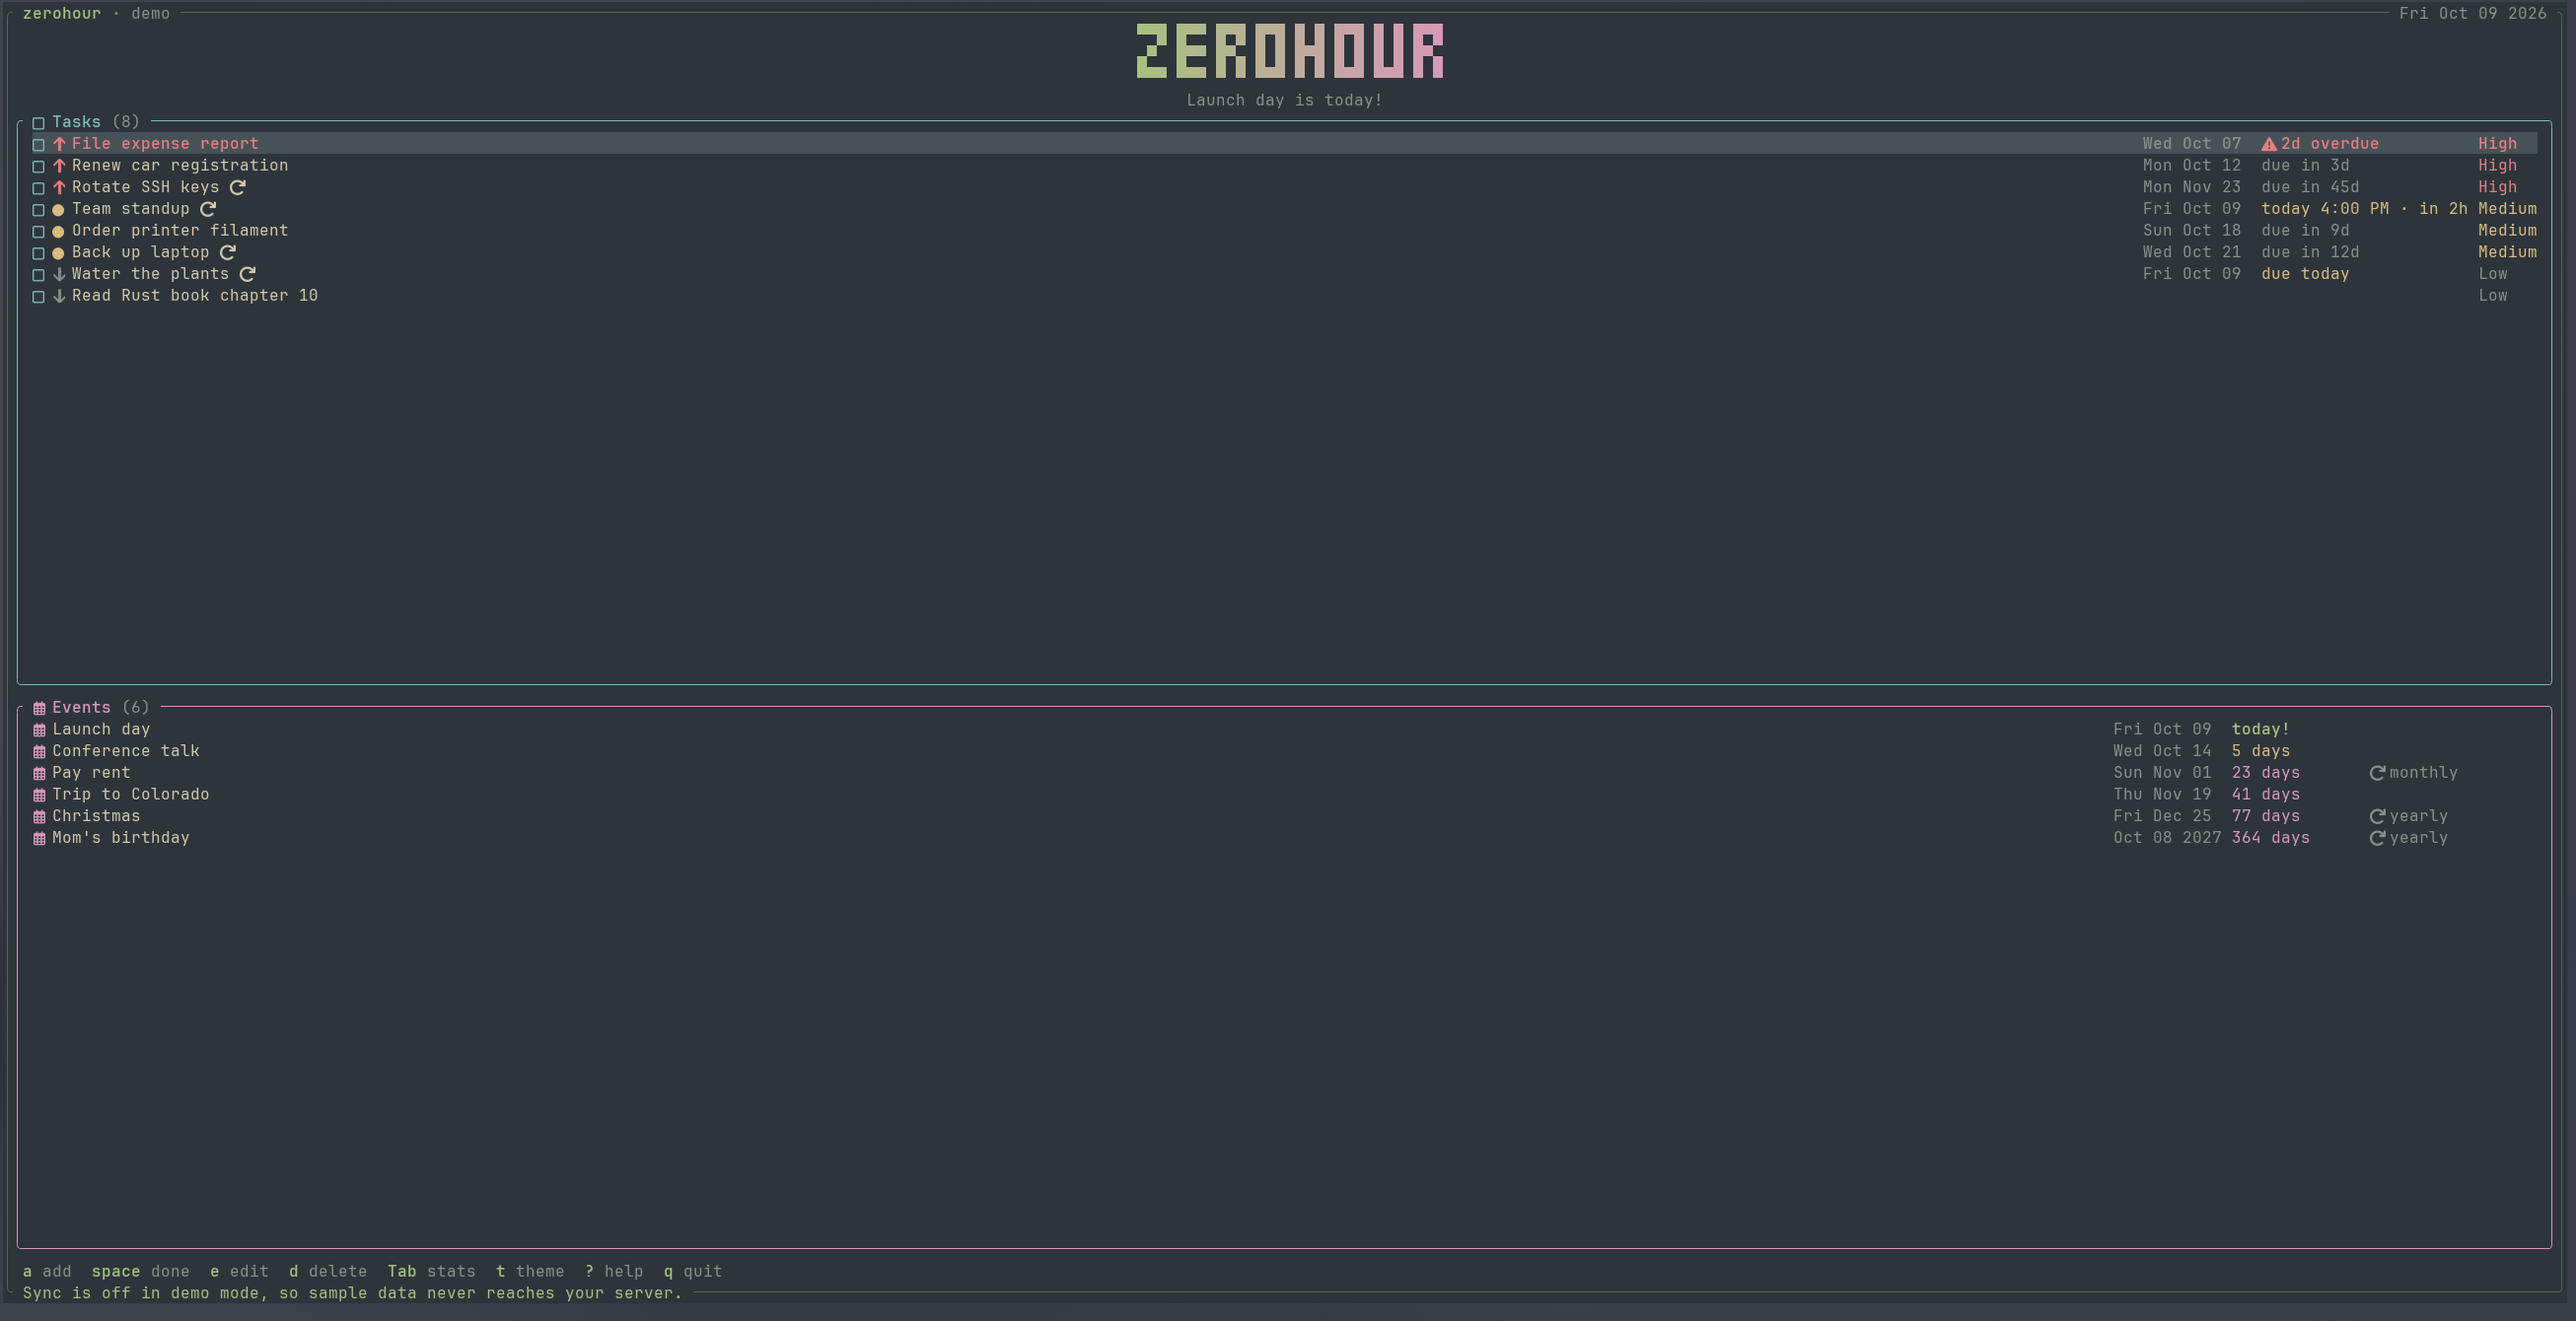
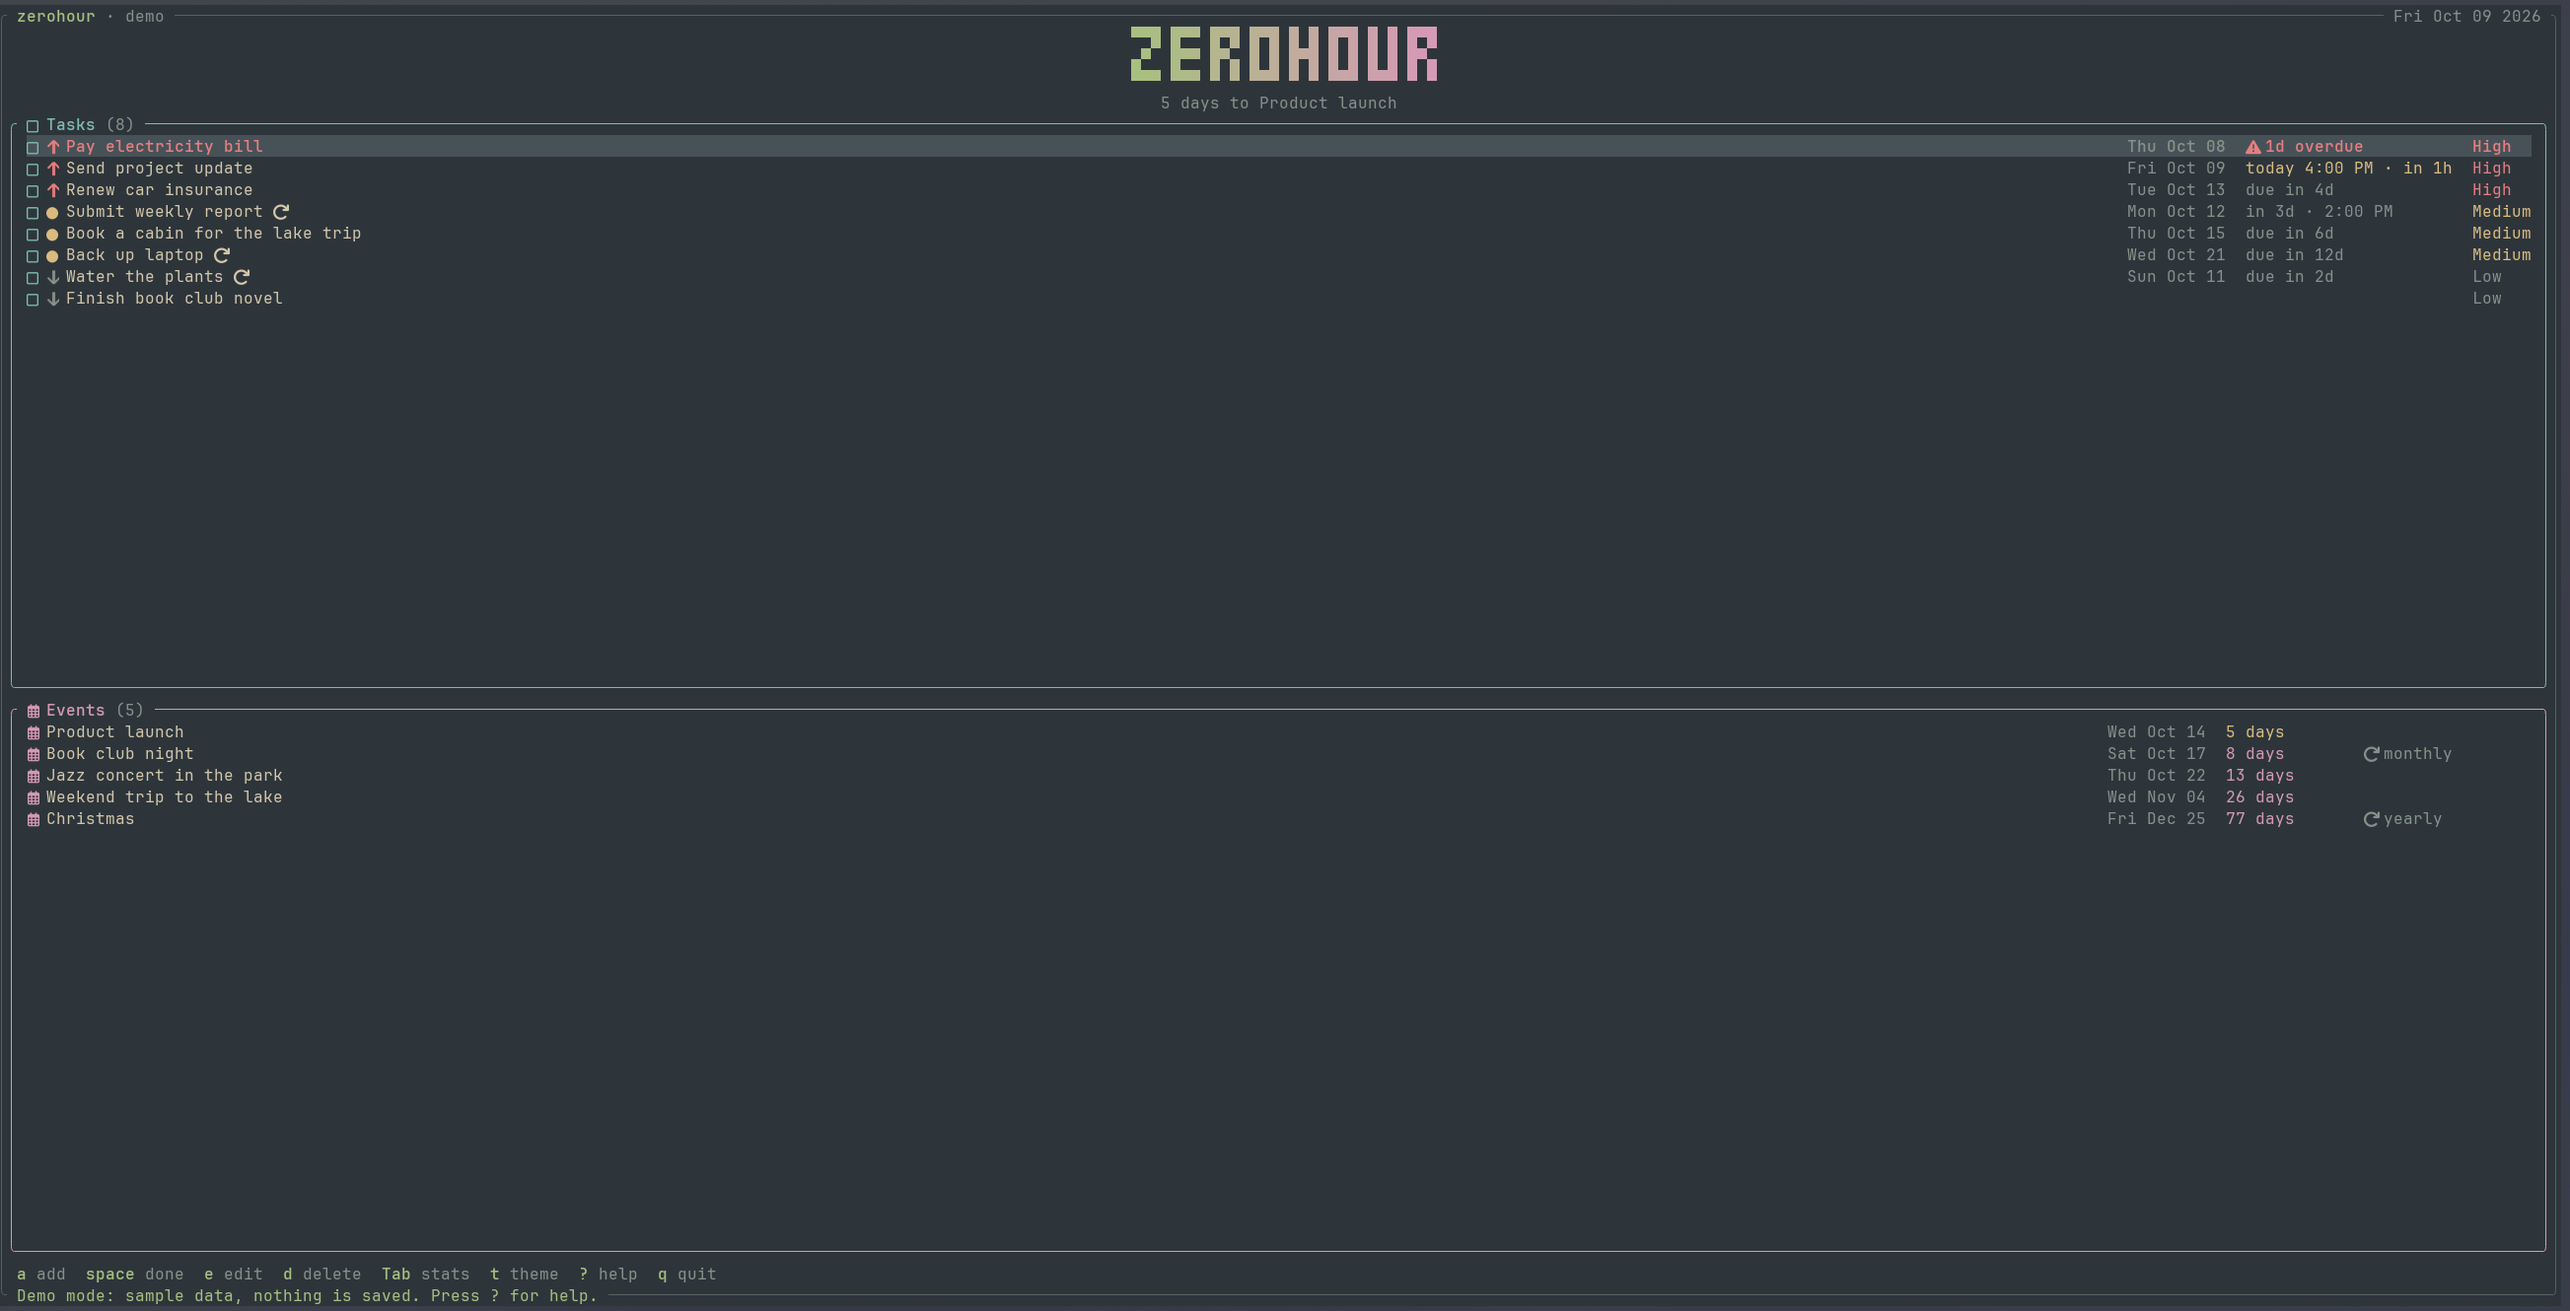
README: split the tasks/events screenshot, refresh captions and alt text
- tasks-and-events.png (a tall, narrow crop) is replaced by tasks.png
  and events.png, shown at full width (no 260px limit), with captions
  covering priorities, due dates and times, overdue and repeating
  tasks, event countdowns and repeat labels.
- full-app-display.png and new-task-display.png are retaken; their
  captions now mention the tagline ("5 days to Product launch") and
  the wrapped date and time hints. The statistics caption also lists
  the streak's best and the priority breakdown shown in the image.
- Every image has descriptive alt text.

Docs only, no code changes.

diff --git a/README.md b/README.md
@@ -5,9 +5,9 @@ A terminal to-do list with built-in countdowns, written in Rust with [Ratatui](h
 Track **tasks** (things to do) and **events** (dates to count down to) in one clean, themeable TUI.
 Add Christmas once and it counts down every year: after the date passes, it rolls over to the next one automatically.
 
-![The zerohour main screen with demo data](docs/screenshots/full-app-display.png)
+![The zerohour main screen with demo data: a gradient "ZEROHOUR" title banner with the tagline "5 days to Product launch", a Tasks section with eight tasks, and an Events section with five countdowns](docs/screenshots/full-app-display.png)
 
-*The main screen (demo data): the title banner with a countdown to the next event, tasks on top with an overdue one in red and one due at 4:00 PM, and upcoming events below.*
+*The main screen (demo data): the title banner with a countdown to the next event ("5 days to Product launch"), tasks on top with an overdue one in red and one due today at 4:00 PM, and upcoming events with their countdowns below.*
 
 > **Status:** early development.
 
@@ -29,23 +29,27 @@ Add Christmas once and it counts down every year: after the date passes, it roll
 
 ## Screenshots
 
-<img src="docs/screenshots/tasks-and-events.png" alt="Tasks and Events sections" width="260">
+![The Tasks section: eight tasks with priority markers, due dates, an overdue task in red, a task due today at 4:00 PM, repeating tasks marked with a circular arrow, and a task with no date](docs/screenshots/tasks.png)
 
-*Tasks and events each get their own section, color, and marker; repeating items show a ↻.*
+*Tasks, sorted by priority (↑ high, ● medium, ↓ low) and then due date. "Pay electricity bill" is a day overdue (⚠, in red); "Send project update" is due today at 4:00 PM, in 1 hour; "Submit weekly report" repeats (↻) and is due Monday at 2:00 PM. A task without a due date simply has no date.*
 
-![Choosing between a task and an event](docs/screenshots/add-task-or-event.png)
+![The Events section: five events with their dates and day countdowns, two marked as repeating monthly and yearly](docs/screenshots/events.png)
+
+*Events count down to their date: "Product launch" in 5 days, "Christmas" in 77. Repeating events show how they repeat (↻ monthly, ↻ yearly) and roll over to the next date on their own.*
+
+![The Add dialog with two choices, Task ("Something to do, optionally with a due date.") and Event ("A date to count down to, like a birthday or holiday.")](docs/screenshots/add-task-or-event.png)
 
 *Adding something starts with one choice: a task or an event.*
 
-![The new task form](docs/screenshots/new-task-display.png)
+![The New task form with fields for title, priority, due date, due time, repeat, and notes, and example formats under the date and time fields](docs/screenshots/new-task-display.png)
 
-*The new-task form, with hints for the dates and times you can type.*
+*The new-task form. Under the due date and due time, hints show what you can type (12/25, +3d, tomorrow, 2pm, 14:30...); they wrap onto a second line when the dialog is narrow.*
 
-![The statistics screen](docs/screenshots/statistics.png)
+![The statistics screen: summary cards for completed tasks, streak, overdue tasks, and on-time rate, a bar chart of completions for each of the last 12 weeks, and a breakdown by priority](docs/screenshots/statistics.png)
 
-*Statistics: completed tasks, current streak, overdue count, on-time rate, and completions per week.*
+*Statistics: completed tasks (all time, this week, this month), the current and best streak, overdue tasks, the on-time rate, a bar chart of completions for each of the last 12 weeks, and a breakdown by priority.*
 
-![The theme picker](docs/screenshots/theme-switcher.png)
+![The theme picker listing Everforest, Dracula, Gruvbox, Catppuccin, Nord, Solarized, and Tokyo Night, each with color swatches](docs/screenshots/theme-switcher.png)
 
 *The theme picker previews each theme live as you move through the list.*
 
